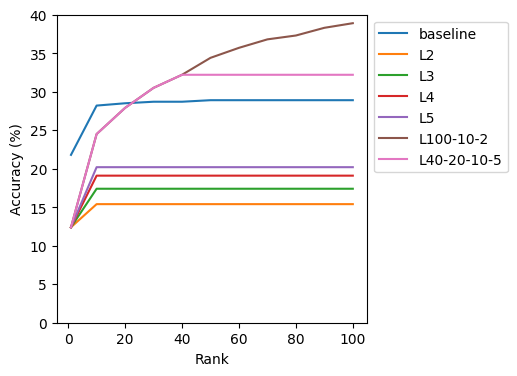
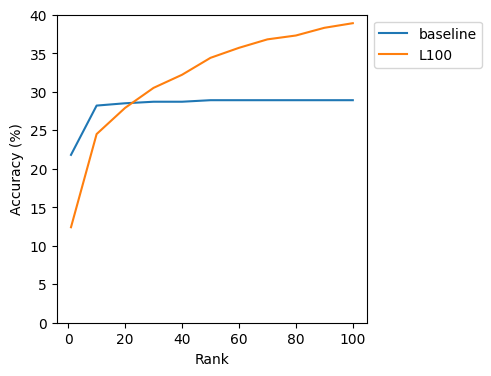
remove unnecessary lines from word acc

diff --git a/report/dlfp-report.tex b/report/dlfp-report.tex
@@ -152,28 +152,38 @@ The two primary parts of the Cruciformer codebase are the model implementation a
 \section{Model Selection}
 \label{sec:model}
 
-Lorem ipsum dolor sit amet, consectetur adipiscing elit, sed do eiusmod tempor incididunt ut labore et dolore magna aliqua.
-Ullamcorper sit amet risus nullam eget felis.
-Adipiscing elit ut aliquam purus sit amet luctus venenatis.
-Lectus vestibulum mattis ullamcorper velit sed ullamcorper morbi.
+Default hyperparameters for each model were either adopted from~\citealp{vaswani2017} or inherited from the upstream codebase.
+Adopted hyperparameters include:
+
+\begin{itemize}
+\item 8 attention heads;
+\item embedding size 512;
+\item 3 encoder layers and 3 decoder layers;
+\item feed-forward network dimension 512;
+\item Adam optimizer~\cite{kingma2017adam} with $\beta_1 = 0.9$, $\beta_2 = 0.98$, and $\epsilon = 10^{-9}$; and
+\item dropout rate 0.1.
+\end{itemize}
+
+The use of cross-entropy for the loss function and learning rate of $10^{-4}$ were inherited from the upstream codebase.
+Learning rates of greater magnitude were tested but in each case the loss did not trend toward convergence.
+The batch size of 128 was likewise taken from the upstream codebase.
+
+Models were trained for 10 epochs.
+Initial results of training both the word model and the letter model showed a propensity for overfit.
+As such, different methods of preventing overfit by varying hyperparameters were attempted.
+These included regularization by varying dropout rates and reducing model dimensionality by decreasing embedding size to 256.
+A dropout rate of zero was also tested to determine whether dropout was actually appropriate for the task.
 
 \subsection{Word Model}
 \label{subsec:word}
 
-As shown in~\ref{fig:onemark-loss-df}, the loss curves are TODO .
-Lorem ipsum dolor sit amet, consectetur adipiscing elit, sed do eiusmod tempor incididunt ut labore et dolore magna aliqua.
-Ullamcorper sit amet risus nullam eget felis.
-Adipiscing elit ut aliquam purus sit amet luctus venenatis.
-Lectus vestibulum mattis ullamcorper velit sed ullamcorper morbi.
+Training and validation loss curves for the word model are shown in~\ref{fig:onemark-loss-df} and~\ref{fig:onemark-loss-dropout}.
+All of the curve pairs show undesirable characteristics.
+In the case of the default parameters and the reduced dimensionality, growing divergence between training and validation loss is evident.
+In the case of dropout, at a dropout rate of zero, the model achieves lower validation loss than under the default rate of 0.1. At greater dropout rates, the loss converges  early at a loss value greater than under the default rate.
 
-As shown in~\ref{fig:onemark-loss-dropout}, the loss curves are TODO .
-In mollis nunc sed id semper risus.
-Consectetur a erat nam at lectus urna duis.
-Tellus molestie nunc non blandit massa enim nec dui nunc.
-Neque egestas congue quisque egestas.
-Massa tempor nec feugiat nisl.
-Dui ut ornare lectus sit.
-Bibendum ut tristique et egestas quis.
+The model trained under default parameters and the model trained with zero dropout show similar overfit propensity, but the zero-dropout model achieves lower loss.
+Thus the zero-dropout model, with INSERT MODEL PARAMETER COUNT trainable parameters, was selected as the optimal word model for subsequent consideration.
 
 \begin{figure}
 \centering
@@ -192,22 +202,18 @@ Bibendum ut tristique et egestas quis.
 \subsection{Letter Model}
 \label{subsec:letter}
 
-As shown in~\ref{fig:charmark-loss-df}, the loss curves are TODO .
-Lorem ipsum dolor sit amet, consectetur adipiscing elit, sed do eiusmod tempor incididunt ut labore et dolore magna aliqua.
-Ullamcorper sit amet risus nullam eget felis.
-Adipiscing elit ut aliquam purus sit amet luctus venenatis.
-Lectus vestibulum mattis ullamcorper velit sed ullamcorper morbi.
+Training and validation loss curves for the letter model are shown in~\ref{fig:charmark-loss-df} and~\ref{fig:charmark-loss-dropout}.
+As with the word model, all of the curve pairs show undesirable characteristics.
+Under the default parameters, the model shows substantial overfit, with the validation loss on an increasing trajectory at later epochs.
+Overfit is also evident in the loss curves of the model with reduced dimensionality, but that model shows a better overall trend, which aligns with the intuition that the small target token space of the letter model would be accommodated better by a lower-dimension model.
 
-As shown in~\ref{fig:charmark-loss-dropout}, the loss curves are TODO .
-In mollis nunc sed id semper risus.
-Consectetur a erat nam at lectus urna duis.
-Tellus molestie nunc non blandit massa enim nec dui nunc.
-Neque egestas congue quisque egestas.
-Massa tempor nec feugiat nisl.
-Dui ut ornare lectus sit.
-Bibendum ut tristique et egestas quis.
+Examination of the loss curves for models trained under varying dropout rates shows that a dropout rate of zero induces substantial overfit and an increasing validation loss trend, similar to the default model but magnified.
+At dropout rate 0.5 there is no evidence of overfit, but the loss appears to have converged early.
 
-\begin{figure}[t]
+The reduced overfit but greater minimum validation loss (0.0173) of the 0.5-dropout model was weighed against the greater overfit and minimum validation loss of 0.0152.
+The reduced-dimensionality model, with INSERT PARAMETER COUNT trainable parameters, was selected as optimal for subsequent consideration.
+
+\begin{figure}
 \centering
 \includegraphics[width=0.9\columnwidth]{fig-charmark-loss-default-and-embsize}
 \caption{\textbf{Letter model} training and validation loss curves for default hyperparameters and reduced embedding size.}
@@ -232,9 +238,15 @@ For each input, the generator produces an array of values corresponding to possi
 
 To produce a list of candidate answers for a given clue, beam search is performed. In beam search, the tree of sequence possibilities is traversed and the resulting answers are ranked by their cumulative probability. The cumulative probability of an answer is the product of the probabilities of the constituent sequence elements (words or letters, depending on the model).
 
-At each node of the tree, the possible next tokens are considered in order of probability, descending, up to a limit parameter. We identify a given tree search strategy by the sequence of these limit parameters, so a strategy that looks at the top 10 tokens, then top 5, then top 3, would be identified by the string L10-5-3. For brevity, the last number in the identifying sequence is assumed for all subsequent decision nodes, so a strategy that considers 2 tokens at every node is identified by the string L2. Next tokens are always considered in order of probability.
+At each node of the tree, the possible next tokens are considered in order of probability, descending, up to a limit parameter.
+We identify a given tree search strategy by the sequence of these limit parameters, so a strategy that looks at the top 10 tokens, then top 5, then top 3, would be identified by the string L10-5-3.
+For brevity, the last number in the identifying sequence is assumed for all subsequent decision nodes, so a strategy that considers 2 tokens at every node is identified by the string L2. (Because the sequences the word model may generate are at most one token, only the L100 strategy is evaluated for the word model.)
 
-Different strategies for generating answers are compared in~\ref{fig:onemark-acc-by-strat} and~\ref{fig:charmark-acc-by-strat} by evaluating their performance in producing correct answers. Because this generator strategy is exponential in runtime by nature, evaluation was performed on a random 1000-pair subset of the validation set. The letter model was evaluated on a subset that contains only answers up to 5 letters in length. Performance is measured by calculating the percentage of correct answers at incremental ranks. For example, the accuracy at rank 10 is the percentage of clue-answer pairs for which the correct answer is among the top 10 candidate answers.
+Performance under different strategies for generating answers is shown in~\ref{fig:onemark-acc-by-strat} and~\ref{fig:charmark-acc-by-strat} by evaluating their performance in producing correct answers.
+Because this generator strategy is exponential in runtime by nature, evaluation was performed on a random 1000-pair subset of the validation set.
+The letter model was evaluated on a subset that contains only answers up to 5 letters in length.
+Performance is measured by calculating the percentage of correct answers at incremental ranks.
+For example, the accuracy at rank 10 is the percentage of clue-answer pairs for which the correct answer is among the top 10 candidate answers.
 
 \begin{figure}
 \centering
@@ -249,6 +261,8 @@ Different strategies for generating answers are compared in~\ref{fig:onemark-acc
 \caption{\textbf{Letter model} accuracy by generator strategy.}
 \label{fig:charmark-acc-by-strat}
 \end{figure}
+
+Figure talk.
 
 
 \section{Results}
